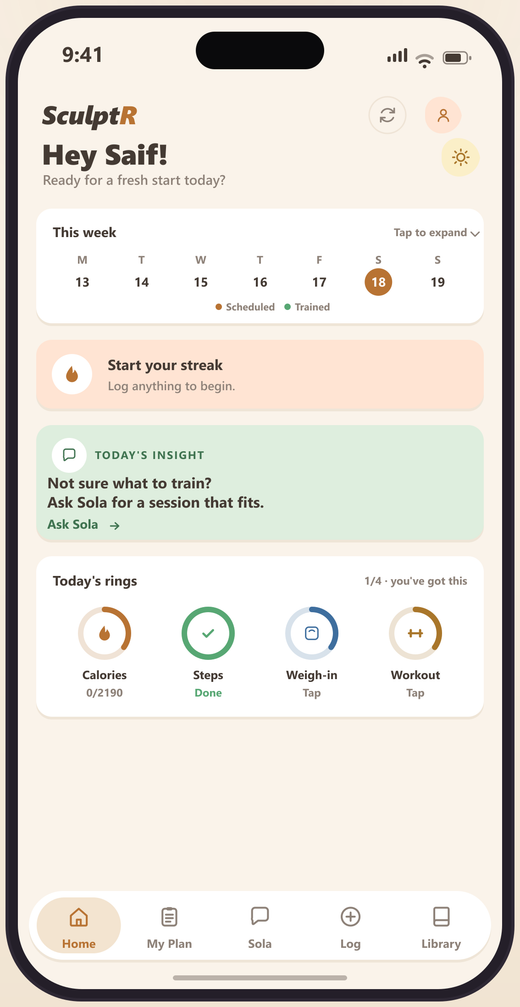
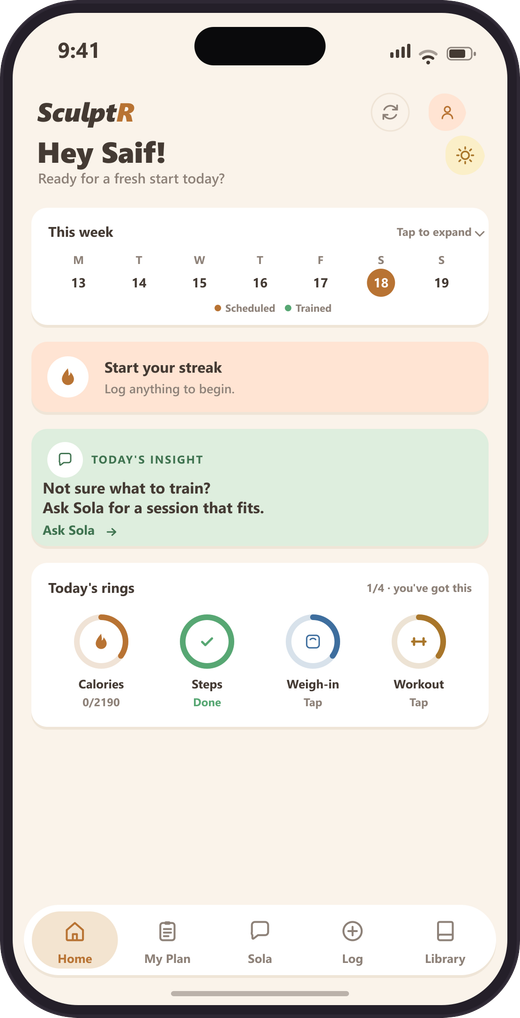
fix: transparent background behind the phone screenshots
The crop still carried the store screenshot's cream page background in the corners
around the rounded phone, so the image sat on a faintly mismatched square against
the site's cream. Masked each screenshot to the phone's exact rounded-rectangle
bezel, so the corners are transparent and the phone sits directly on the page.

diff --git a/index.html b/index.html
@@ -156,7 +156,7 @@
         <div class="stores" id="hero-stores"></div>
       </div>
       <div class="hero-shot">
-        <img src="assets/01-home.png" alt="The SculptR home screen showing daily rings for calories, steps, weigh-in and workout" width="520" height="1007" />
+        <img src="assets/01-home.png" alt="The SculptR home screen showing daily rings for calories, steps, weigh-in and workout" width="520" height="1018" />
       </div>
     </div>
   </section>
